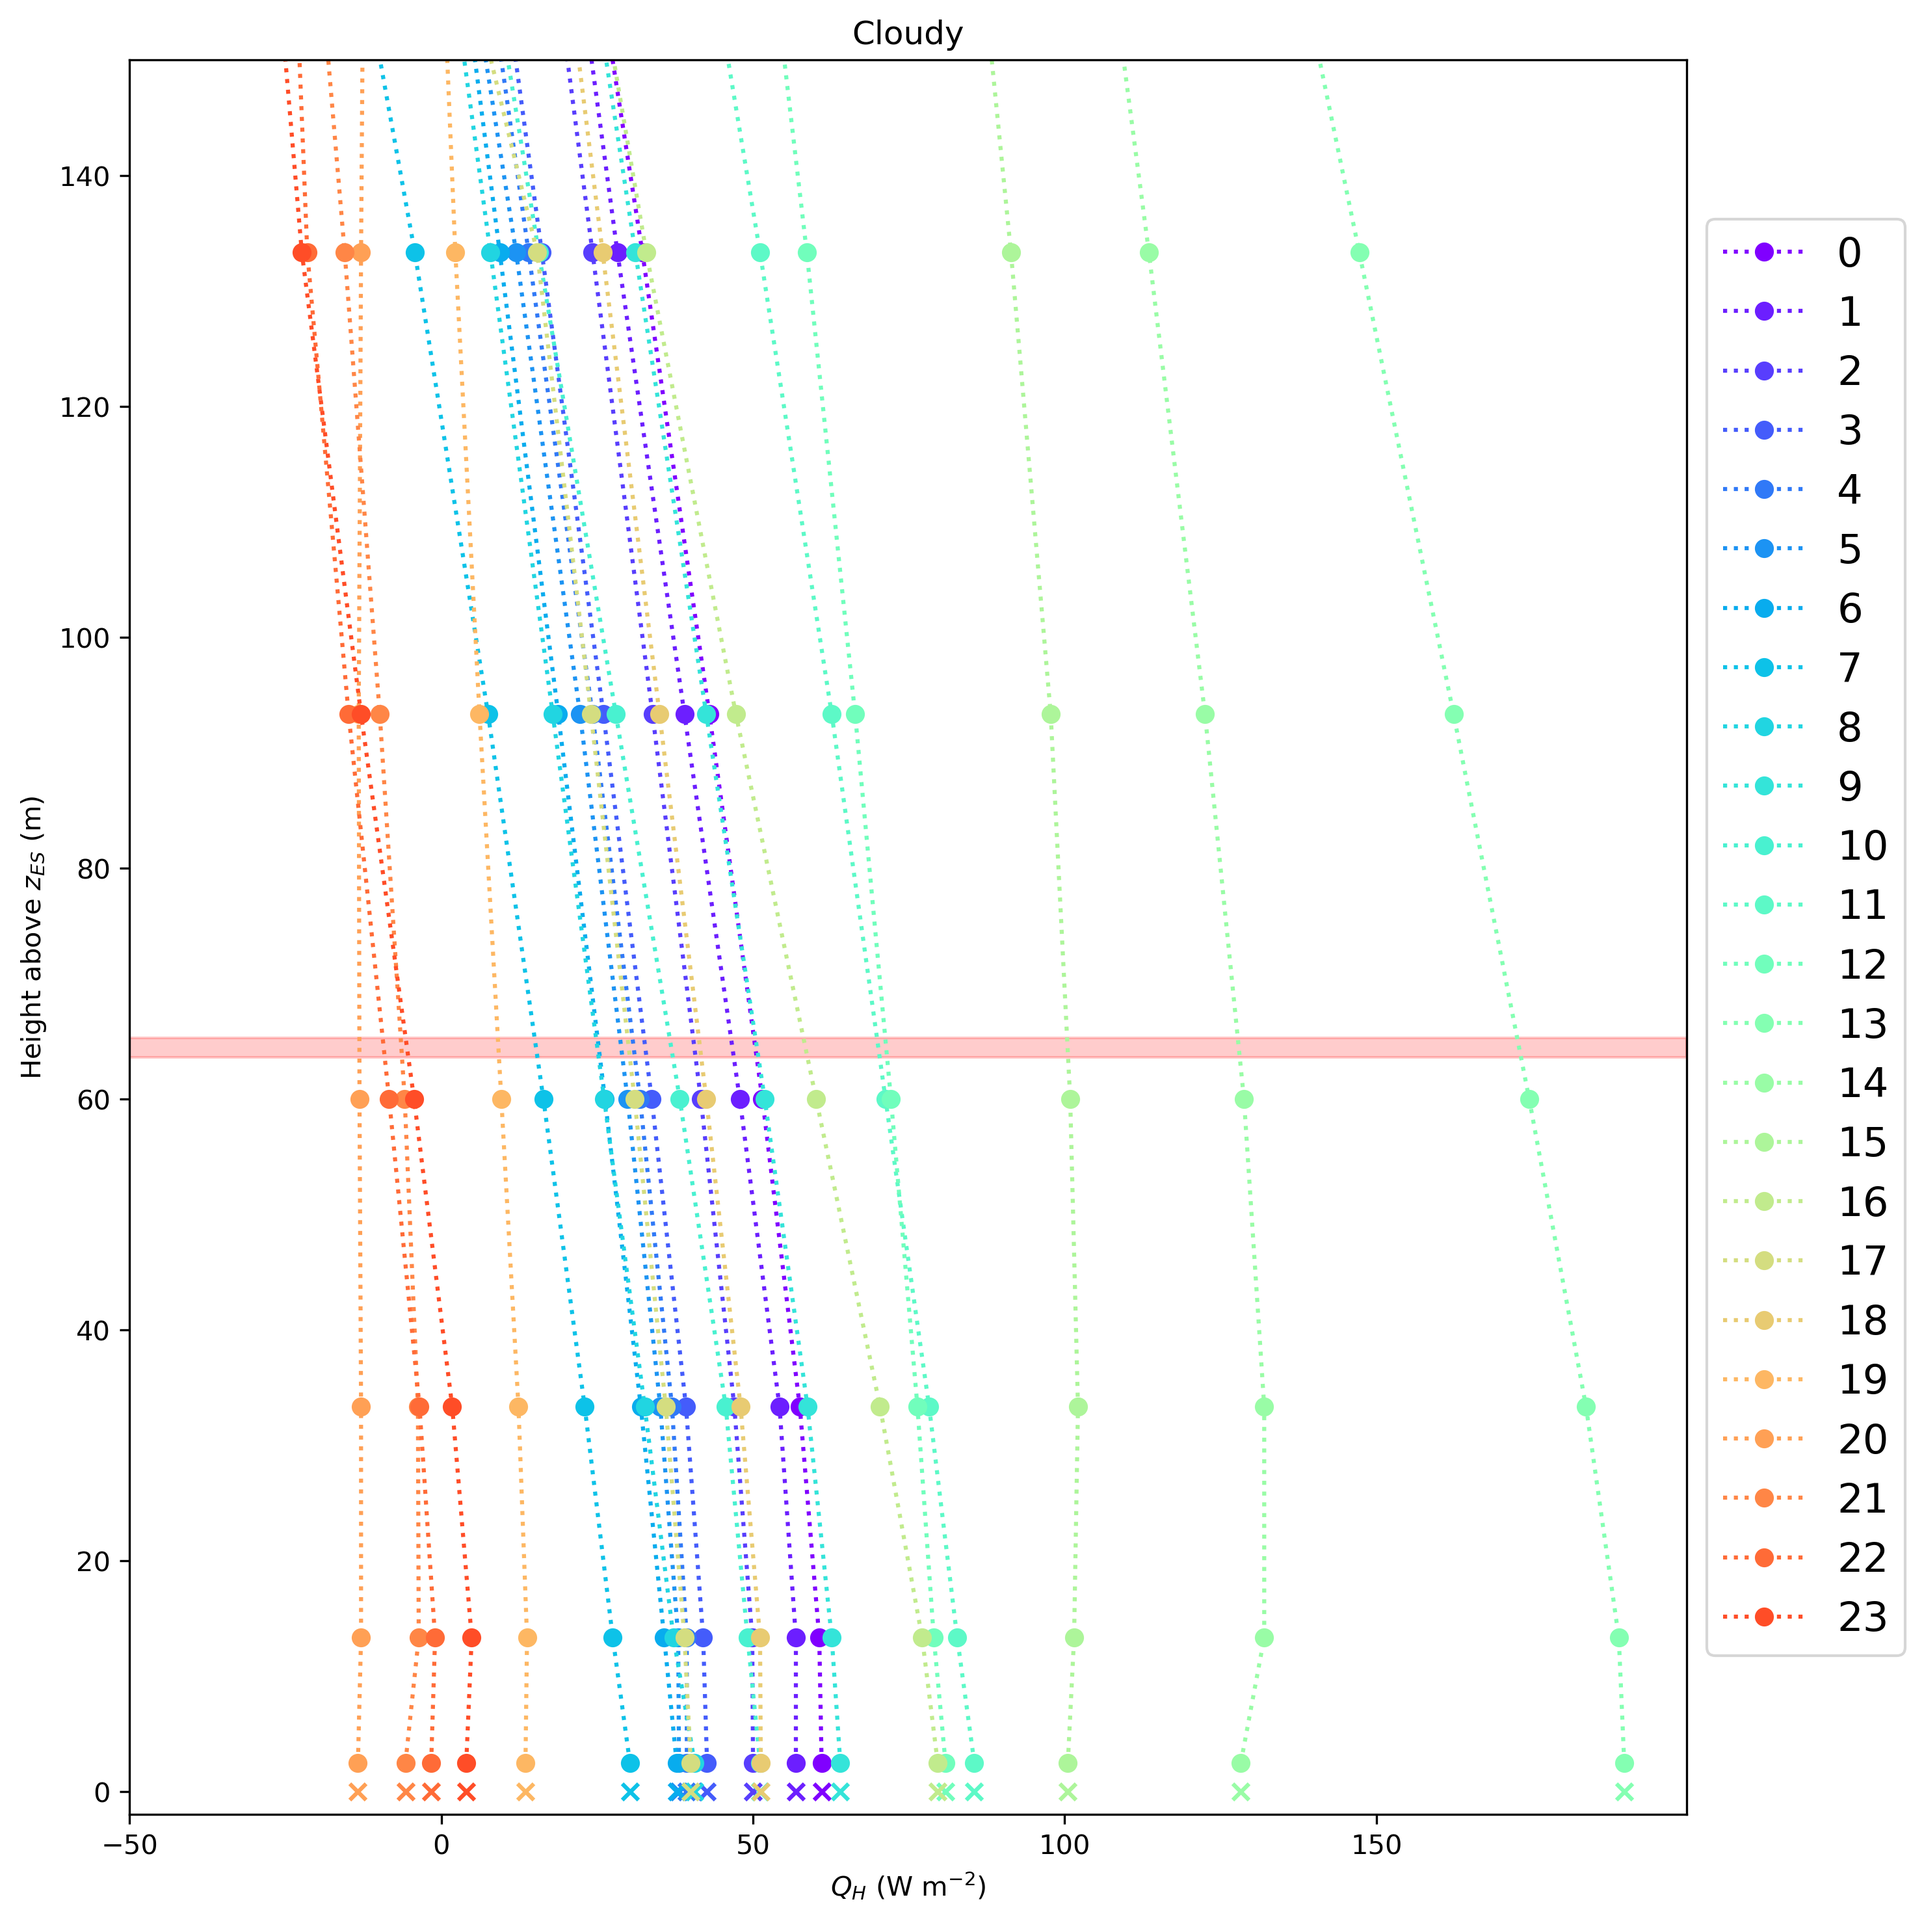
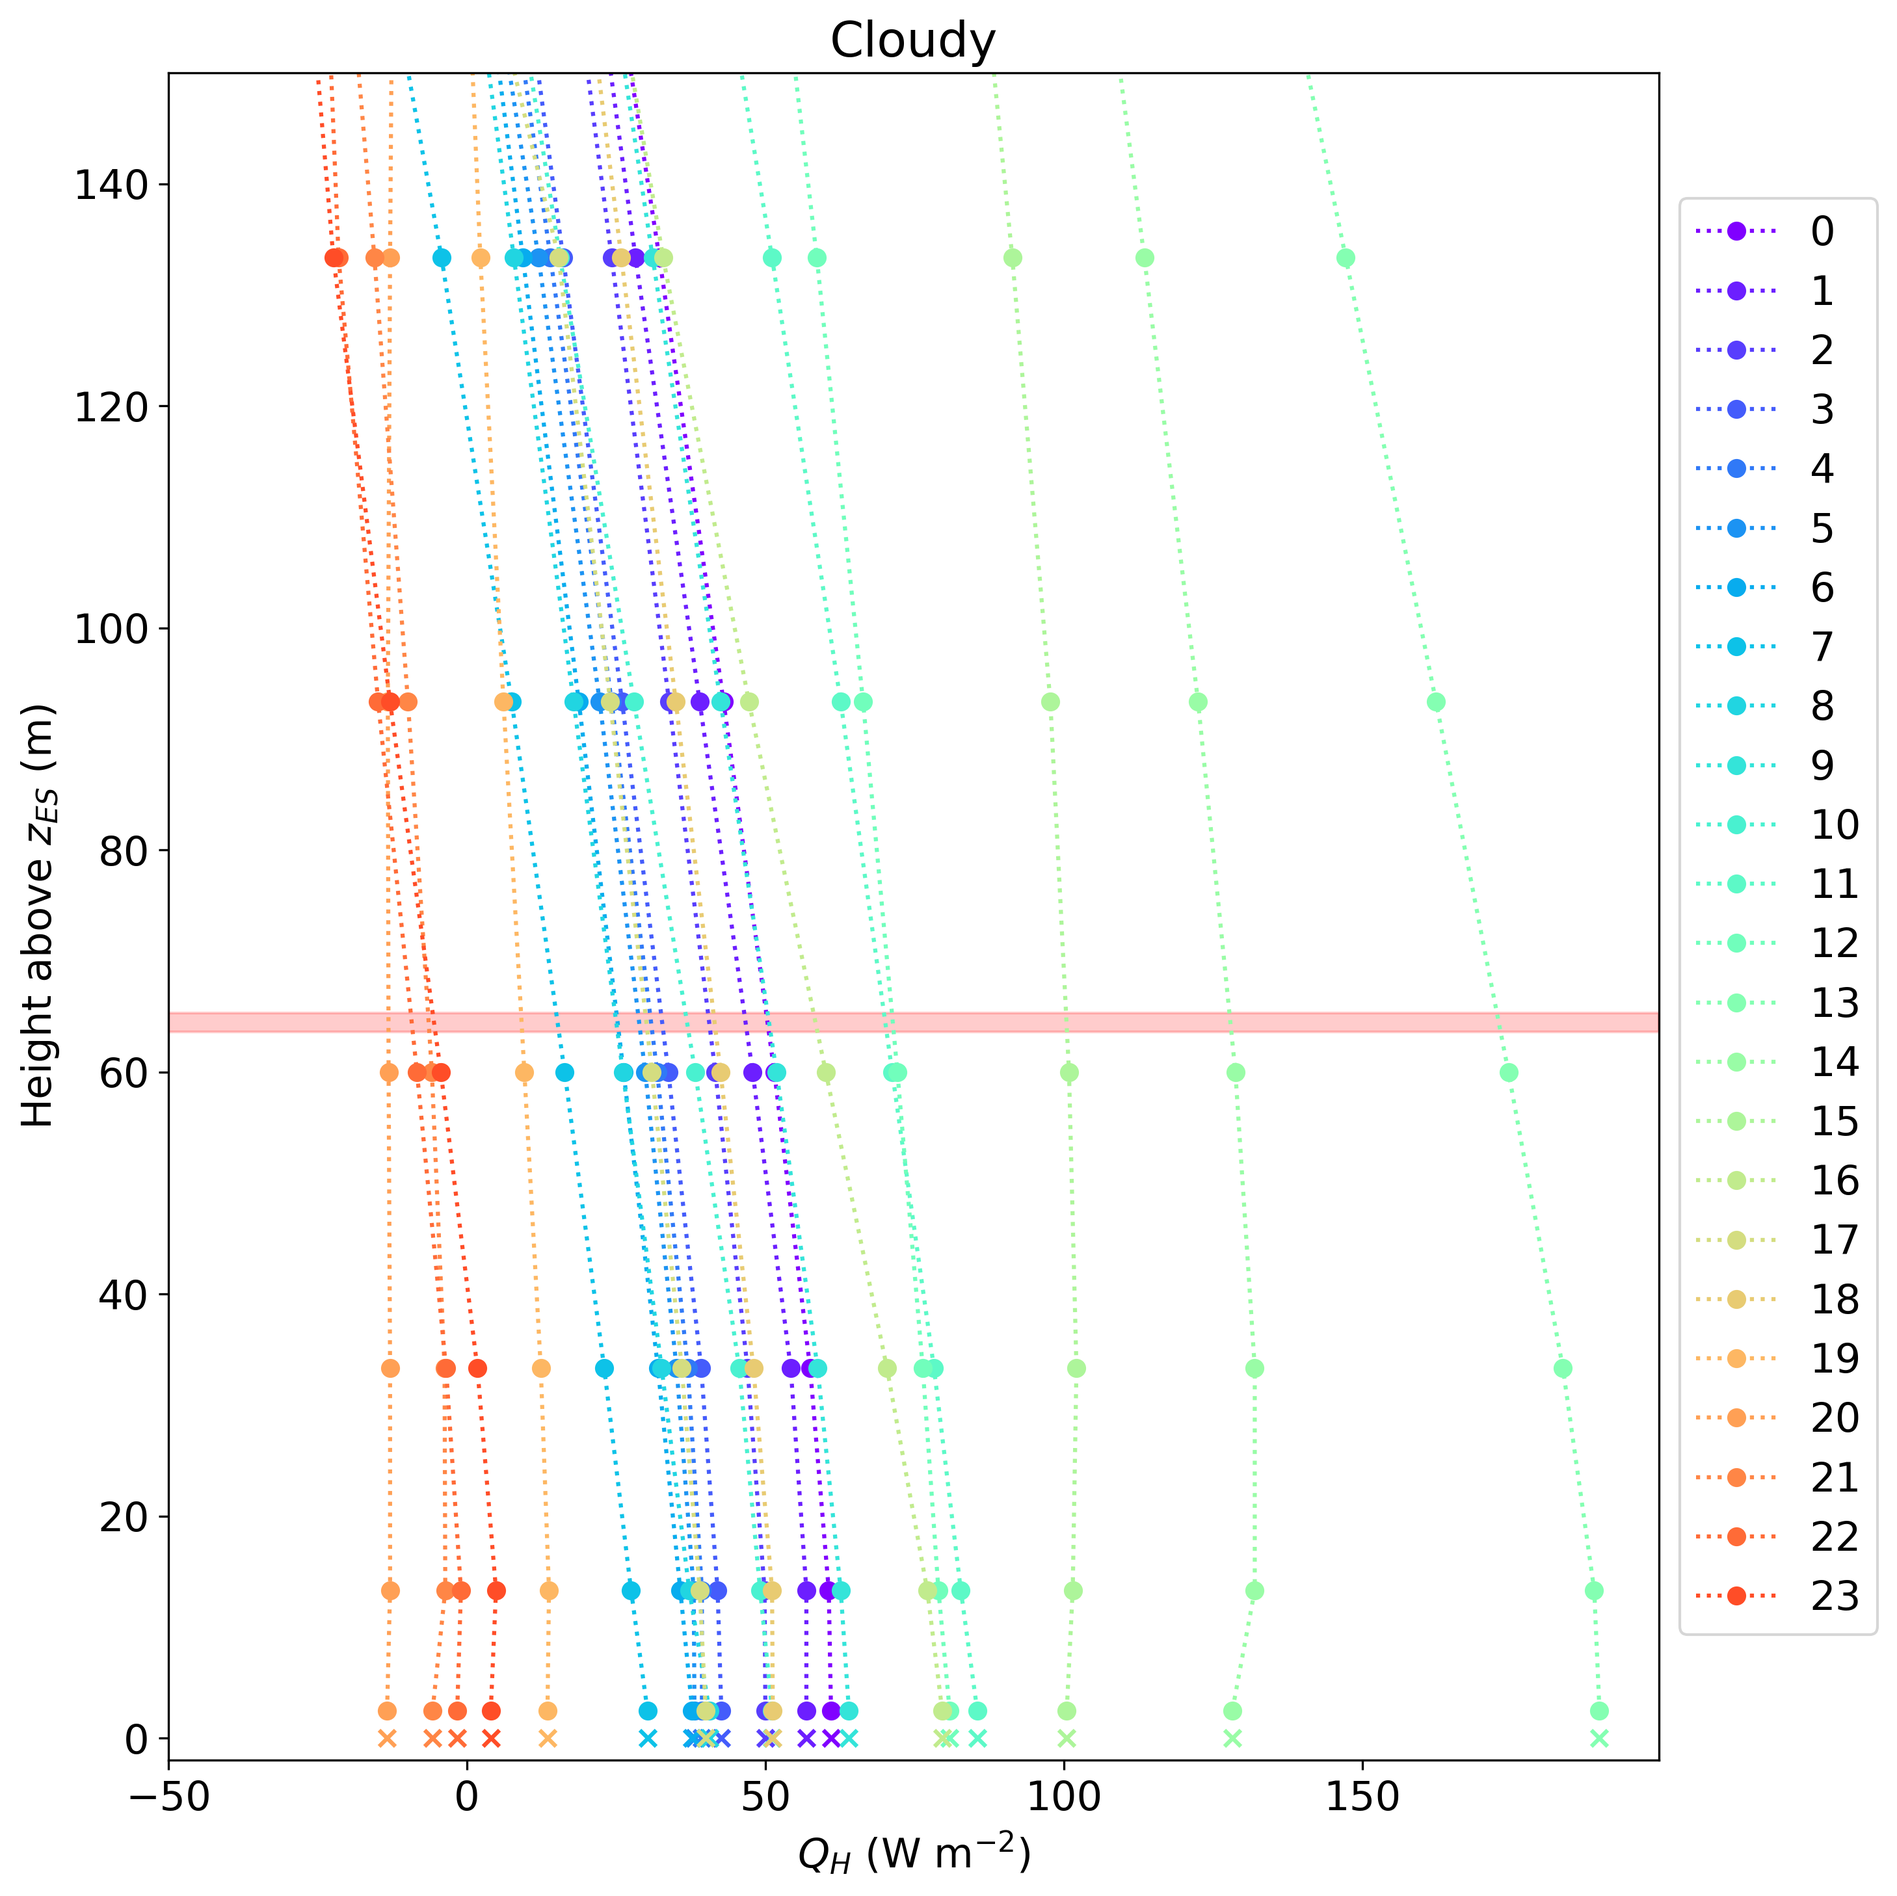
increase text size

diff --git a/scint_plots/model_levels/model_levels_funs.py b/scint_plots/model_levels/model_levels_funs.py
@@ -1,6 +1,9 @@
 import netCDF4 as nc
 import matplotlib.pyplot as plt
 import numpy as np
+import matplotlib as mpl
+
+mpl.rcParams.update({'font.size': 15})
 
 from model_eval_tools.retrieve_UKV import find_model_files
 from model_eval_tools import look_up
